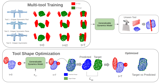
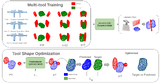
update page

diff --git a/style.scss b/style.scss
@@ -55,16 +55,6 @@ strong {
   font-weight: bold;
 }
 
-h2 {
-  font-family: 'Lato', Verdana, Helvetica, sans-serif;
-  font-size: 1.75rem;
-  font-display: auto;
-  font-weight: normal;
-  padding: 0px;
-  margin: 0px;
-  display:inline; 
-}
-
 h3 {
   font-family: 'Lato', Verdana, Helvetica, sans-serif;
   font-size: $font-size-normal;
@@ -103,7 +93,36 @@ span.highlight {
 
 #portrait {
   width: 100%;
-  max-width: 100%
+  max-width: 360px;
+}
+
+#name {
+  text-align: left;
+  font-weight: bold;
+  font-size: 3.5rem;
+}
+
+.section-tab {
+  font-size: 2rem;
+  color: $gray;
+  margin-right: 1.5rem;
+
+  &:hover {
+    color: $darkGray;
+  }
+
+  &.active {
+    color: $black;
+    font-weight: bold;
+  }
+}
+
+.tab-pane {
+  display: none;
+
+  &.active {
+    display: block;
+  }
 }
 
 .project-thumbnail-parent {
@@ -147,26 +166,12 @@ body {
   max-width: 850px;   
 }
 
-// Publications
-
-.publication {
-  .authors {
-    a {
-      color: #000000;
-    }
-    a:focus,
-    a:hover {
-      color: #f09228;
-      text-decoration: none;
-    }
-  }
-}
-
 // Bootstrap-specific
 
 body {
   div.container-fluid {
-    max-width: 1000px;
+    max-width: 1300px;
+    padding-top: 5rem;
   }
 }
 

diff --git a/_includes/publications.html b/_includes/publications.html
@@ -1,10 +1,5 @@
 {% assign publication_posts = site.posts | contains: 'categories', 'publications' %}
 {% if publication_posts.size > 0 %}
-<div class="row py-2">
-    <div class="col-md-12" id="publications">
-        <h2>Publications</h2>
-    </div>
-</div>
 {% for post in publication_posts %}
 <div class="row py-2 publication">
     <div class="col-md-2 col-sm-12 project-thumbnail-parent" align="center">
@@ -16,40 +11,25 @@
     <div class="col-md-10 col-sm-12 project-description">
         <h3>{{post.title}}</h3>
         <br>
-        <div class="authors">
-            {{post.authors}}
+        {% if post.team %}
+        <div>
+            <strong>{{ post.team }}</strong>
+            {% if post.team_link_text %}
+            in
+            {% if post.team_link_url %}
+            <a href="{{ post.team_link_url }}">{{ post.team_link_text }}</a>
+            {% else %}
+            <em>{{ post.team_link_text }}</em>
+            {% endif %}
+            {% endif %}
         </div>
-
-        <em>{{post.venue}}</em>, {{ post.date | date: "%Y" }}
+        {% endif %}
+        <em>{{ post.venue }} {{ post.date | date: "%Y" }}</em>
         <br>
         {% assign need_separator = false %}
-        {% if post.page_url %}
+        {% if post.pdf_url %}
         {% assign need_separator = true %}
-        <a href="{{post.page_url}}">url</a>
-        {% endif %}
-        {% if post.bib %}
-        {% if need_separator %} / {% endif %}
-        {% assign need_separator = true %}
-        <a href="" data-toggle="modal" data-target="#publicationBibModal{{forloop.index}}">bib</a>
-        <div class="modal fade" id="publicationBibModal{{forloop.index}}" tabindex="-1" role="dialog" aria-labelledby="exampleModalLabel" aria-hidden="true">
-            <div class="modal-dialog d-md-table" role="document">
-                <div class="modal-content">
-                <div class="modal-header">
-                    <h5 class="modal-title" id="exampleModalLabel">{{post.title}}</h5>
-                    <button type="button" class="close" data-dismiss="modal" aria-label="Close">
-                    <span aria-hidden="true">&times;</span>
-                    </button>
-                </div>
-                <div class="modal-body code text-monospace bib-text">
-                    {{ post.bib | newline_to_br }}
-                </div>
-                <div class="modal-footer">
-                    <button type="button" class="btn btn-primary copy-btn">Copy</button>
-                    <button type="button" class="btn btn-secondary" data-dismiss="modal">Close</button>
-                </div>
-                </div>
-            </div>
-        </div>
+        <a href="{{post.pdf_url}}">PDF</a>
         {% endif %}
         {% if post.links %}
             {% for link in post.links %}
@@ -58,8 +38,6 @@
                 <a href="{{link[1]}}">{{link[0]}}</a>
             {% endfor %}
         {% endif %}
-        <p></p>
-        {{ post.excerpt | replace: '<p', '<p class="text-justify"' }}
     </div>
 </div>
 {% endfor %}

diff --git a/index.html b/index.html
@@ -2,21 +2,36 @@
 layout: default
 ---
 
+<h1 id="name">{{ site.name }}</h1>
+
 <div class="row flex-column-reverse flex-md-row py-2">
     <div class="col-md-8" id="bio">
         I am a Master's student in Computer Science, concurrently studying at the University of British Columbia and ETH Zurich. I work at the intersection of robotics, machine learning, and computer vision, with a focus on robot manipulation. I am currently supervised by Prof. Kelsey Allen.
         My specific research interest is using graph neural networks to simulate the dynamics of soft objects for deformable object manipulation.
         <p style="text-align:center">
-            <a target="_blank" href="https://mailhide.io/">Email</a> &nbsp;/&nbsp;
-            <a href="https://github.com/">GitHub</a> &nbsp;/&nbsp;
-            <a href="https://twitter.com/">Twitter</a> &nbsp;/&nbsp;
-            <a href="https://scholar.google.com/citations?user=">Google Scholar</a> &nbsp;/&nbsp;
-            <a href="https://www.linkedin.com/in/">LinkedIn </a>
+            <a href="mailto:{{ site.footer-links.email }}">Email</a> &nbsp;/&nbsp;
+            <a href="https://github.com/{{ site.footer-links.github }}">GitHub</a> &nbsp;/&nbsp;
+            <a href="{{ site.footer-links.scholar }}">Google Scholar</a> &nbsp;/&nbsp;
+            <a href="https://www.linkedin.com/{{ site.footer-links.linkedin }}">LinkedIn</a>
         </p>
     </div>
     <div class="col-md-4" style="z-index:4;">
-        <img alt="profile photo" id="portrait" src="images/portrait.jpg">
+        <img alt="profile photo" id="portrait" src="{{ site.avatar }}">
     </div>
 </div>
 
-{% include publications.html %}
+<div class="row py-2">
+    <div class="col-md-12">
+        <a href="#" class="section-tab active" data-target="publications">Research</a>
+        <a href="#" class="section-tab" data-target="misc">Misc</a>
+    </div>
+</div>
+
+<div class="tab-content">
+    <div class="tab-pane show active" id="publications">
+        {% include publications.html %}
+    </div>
+    <div class="tab-pane" id="misc">
+        {% include misc.html %}
+    </div>
+</div>

diff --git a/_includes/misc.html b/_includes/misc.html
@@ -1,0 +1,8 @@
+{% for item in site.data.awards %}
+<div class="row py-1">
+    <div class="col-2 col-md-1">{{ item.year }}</div>
+    <div class="col-10 col-md-11">
+        {% if item.url %}<a href="{{ item.url }}">{{ item.text }}</a>{% else %}{{ item.text }}{% endif %}
+    </div>
+</div>
+{% endfor %}

diff --git a/publication_effects.js b/publication_effects.js
@@ -21,6 +21,14 @@ $('div.publication').hover(
         }
     });
 
+$('a.section-tab').click(function(event){
+    event.preventDefault();
+    $('a.section-tab').removeClass('active');
+    $('.tab-pane').removeClass('active');
+    $(this).addClass('active');
+    $('#' + $(this).data('target')).addClass('active');
+});
+
 $('button.copy-btn').click(function(){
     var parent = $(this).parent();
     var modal = $(parent).parent();

diff --git a/_sass/_variables.scss b/_sass/_variables.scss
@@ -4,8 +4,8 @@
 //
 
 // Sizes
-$font-size-normal: 1.1rem;
-$font-size-small: 0.9rem;
+$font-size-normal: 1.5rem;
+$font-size-small: 1.2rem;
 
 // Colors
 $blue: #4183C4;

diff --git a/_layouts/default.html b/_layouts/default.html
@@ -7,6 +7,7 @@
   <!-- The above meta tags must come first -->
 
   <meta name="author" content="{{ site.name }}" />
+  <meta name="description" content="{{ site.description }}" />
   <title>{{ site.name }}</title>
 
   <!-- Bootstrap CSS 4.6.0, never versions fail to load -->
@@ -20,8 +21,6 @@
 </head>
 
 <body class="d-flex flex-column">
-  {% include navigation.html %}
-
   <div class="container-fluid flex-fill">
     {{ content }}
   </div>